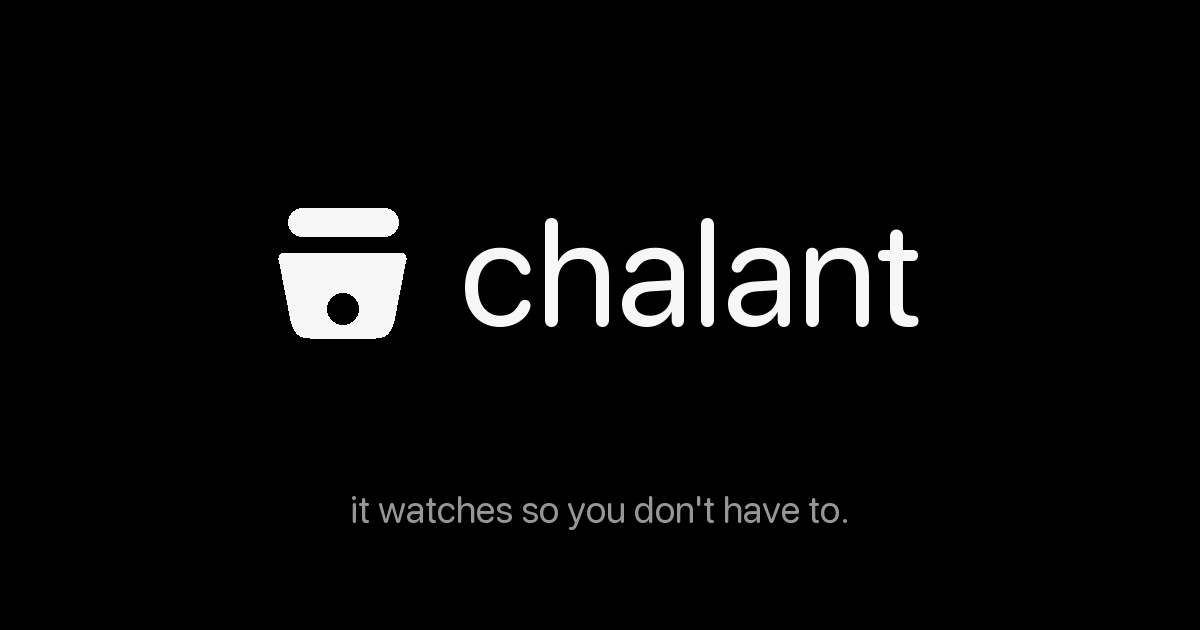
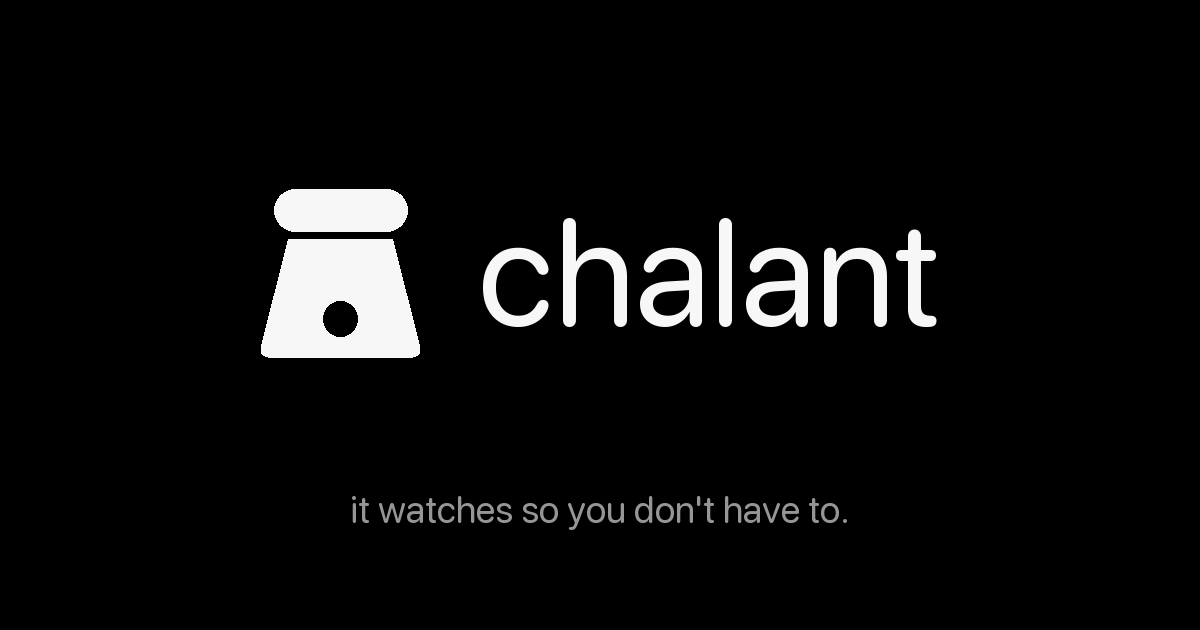
Round 148 finale · the emblem, from the source
Rebuilt the mark straight from the brand v0.3 SVG path data: the
body flares from a narrow top to a wide base (I had it inverted),
sharp top corners, rounded bottom, eye low. One 512-space geometry
drives the icon, menu bar, in-app glyph, favicon, and card.

Claude-Session: https://claude.ai/code/session_01GBy3mdeX5wexL2qBfmQLaf

Changed region(s): [[0.2158, 0.3317, 0.8017, 0.573], [0.2158, 0.3016, 0.3392, 0.4222]]

diff --git a/Chalant/ChalantApp.swift b/Chalant/ChalantApp.swift
@@ -53,37 +53,42 @@ final class AppDelegate: NSObject, NSApplicationDelegate {
         // through. Even-odd fill keeps the eye open. Matches the app
         // icon exactly; no capsule, so it can't read as a toggle.
         let icon = NSImage(size: NSSize(width: 18, height: 18), flipped: false) { _ in
-            // y up: the bar sits high (topY), the bucket hangs below.
-            // Same geometry (units of u) as the app icon and in-app mark.
-            let u = 0.9 * 18.0 / 0.52, cx = 9.0, topY = 9.0 + 0.26 * u
+            // The brand-SVG emblem (512 space) mapped into 18pt, y
+            // flipped (AppKit is y-up): the bar sits high, the flared
+            // body hangs below, eye low. Same geometry as the app icon.
+            let s = 15.6 / 272.0
+            func P(_ x: Double, _ y: Double) -> NSPoint {
+                NSPoint(x: 9.0 + (x - 256) * s, y: 9.0 + (256 - y) * s)
+            }
             let path = NSBezierPath()
             path.windingRule = .evenOdd
+            let bar0 = P(148, 188), bar1 = P(364, 120)  // flipped: bottom-left, top-right
             path.appendRoundedRect(
-                NSRect(x: cx - 0.22 * u, y: topY - 0.11 * u, width: 0.44 * u, height: 0.11 * u),
-                xRadius: 0.055 * u, yRadius: 0.055 * u
+                NSRect(x: bar0.x, y: bar0.y, width: bar1.x - bar0.x, height: bar1.y - bar0.y),
+                xRadius: 34 * s, yRadius: 34 * s
             )
-            let bt = topY - 0.18 * u, bb = topY - 0.52 * u
-            let corners = [
-                (cx - 0.26 * u, bt), (cx + 0.26 * u, bt),
-                (cx + 0.19 * u, bb), (cx - 0.19 * u, bb),
-            ]
-            let radii = [0.035 * u, 0.035 * u, 0.06 * u, 0.06 * u]
+            let corners = [P(172, 202), P(340, 202), P(387.95, 392), P(124.05, 392)]
+            let radii = [0.0, 0.0, 20 * s, 20 * s]
             for i in 0..<4 {
                 let cur = corners[i], prev = corners[(i + 3) % 4], next = corners[(i + 1) % 4]
-                func unit(_ f: (Double, Double), _ t: (Double, Double)) -> (Double, Double) {
-                    let dx = t.0 - f.0, dy = t.1 - f.1, L = max((dx * dx + dy * dy).squareRoot(), 0.0001)
+                let r = radii[i]
+                if r <= 0 {
+                    if i == 0 { path.move(to: cur) } else { path.line(to: cur) }
+                    continue
+                }
+                func unit(_ f: NSPoint, _ t: NSPoint) -> (Double, Double) {
+                    let dx = t.x - f.x, dy = t.y - f.y, L = max((dx * dx + dy * dy).squareRoot(), 0.0001)
                     return (dx / L, dy / L)
                 }
-                let up = unit(cur, prev), un = unit(cur, next), r = radii[i]
-                let p1 = NSPoint(x: cur.0 + up.0 * r, y: cur.1 + up.1 * r)
-                let p2 = NSPoint(x: cur.0 + un.0 * r, y: cur.1 + un.1 * r)
-                let ctl = NSPoint(x: cur.0, y: cur.1)
-                if i == 0 { path.move(to: p1) } else { path.line(to: p1) }
-                path.curve(to: p2, controlPoint1: ctl, controlPoint2: ctl)
+                let up = unit(cur, prev), un = unit(cur, next)
+                let p1 = NSPoint(x: cur.x + up.0 * r, y: cur.y + up.1 * r)
+                let p2 = NSPoint(x: cur.x + un.0 * r, y: cur.y + un.1 * r)
+                path.line(to: p1)
+                path.curve(to: p2, controlPoint1: cur, controlPoint2: cur)
             }
             path.close()
-            let er = 0.062 * u, ecy = topY - 0.405 * u
-            path.appendOval(in: NSRect(x: cx - er, y: ecy - er, width: er * 2, height: er * 2))
+            let eye = P(256, 330), er = 28 * s
+            path.appendOval(in: NSRect(x: eye.x - er, y: eye.y - er, width: er * 2, height: er * 2))
             NSColor.black.setFill()
             path.fill()
             return true

diff --git a/Chalant/Views/Components.swift b/Chalant/Views/Components.swift
@@ -372,29 +372,32 @@ private func roundedQuad(_ pts: [CGPoint], radii: [CGFloat]) -> Path {
     return path
 }
 
-/// The house mark: the little watcher (brand v0.3). A wide rounded
-/// bar floats above a crisp tapered bucket with one low eye; "it
-/// watches so you don't have to." Geometry in units of `u`, anchored
-/// at the bar's top edge, identical to the app icon and the menu bar
-/// glyph. Even-odd fill keeps the eye open.
+/// The house mark: the little watcher (brand v0.3), reproduced from
+/// the brand SVG in its own 512 space and mapped into `rect`. A wide
+/// bar above a body that flares from a narrow top to a wide base
+/// (sharp top corners, rounded bottom), with one low eye. "It watches
+/// so you don't have to." Even-odd fill keeps the eye open. Identical
+/// geometry to the app icon and the menu bar glyph.
 struct ChalantMarkShape: Shape {
     func path(in rect: CGRect) -> Path {
+        // Emblem bbox in 512 space is 264 x 272, centered at (256,256).
         let d = min(rect.width, rect.height)
-        let u = 0.9 * d / 0.52
-        let cx = rect.midX
-        let top = rect.midY - 0.26 * u
+        let s = 0.94 * d / 272
+        func P(_ x: CGFloat, _ y: CGFloat) -> CGPoint {
+            CGPoint(x: rect.midX + (x - 256) * s, y: rect.midY + (y - 256) * s)
+        }
         var p = Path()
+        let bar = P(148, 120)
         p.addRoundedRect(
-            in: CGRect(x: cx - 0.22 * u, y: top, width: 0.44 * u, height: 0.11 * u),
-            cornerSize: CGSize(width: 0.055 * u, height: 0.055 * u)
+            in: CGRect(x: bar.x, y: bar.y, width: 216 * s, height: 68 * s),
+            cornerSize: CGSize(width: 34 * s, height: 34 * s)
         )
-        let bt = top + 0.18 * u, bb = top + 0.52 * u
-        p.addPath(roundedQuad([
-            CGPoint(x: cx - 0.26 * u, y: bt), CGPoint(x: cx + 0.26 * u, y: bt),
-            CGPoint(x: cx + 0.19 * u, y: bb), CGPoint(x: cx - 0.19 * u, y: bb),
-        ], radii: [0.035 * u, 0.035 * u, 0.06 * u, 0.06 * u]))
-        let er = 0.062 * u
-        p.addEllipse(in: CGRect(x: cx - er, y: top + 0.405 * u - er, width: er * 2, height: er * 2))
+        p.addPath(roundedQuad(
+            [P(172, 202), P(340, 202), P(387.95, 392), P(124.05, 392)],
+            radii: [0, 0, 20 * s, 20 * s]
+        ))
+        let eye = P(256, 330), er = 28 * s
+        p.addEllipse(in: CGRect(x: eye.x - er, y: eye.y - er, width: er * 2, height: er * 2))
         return p
     }
 }